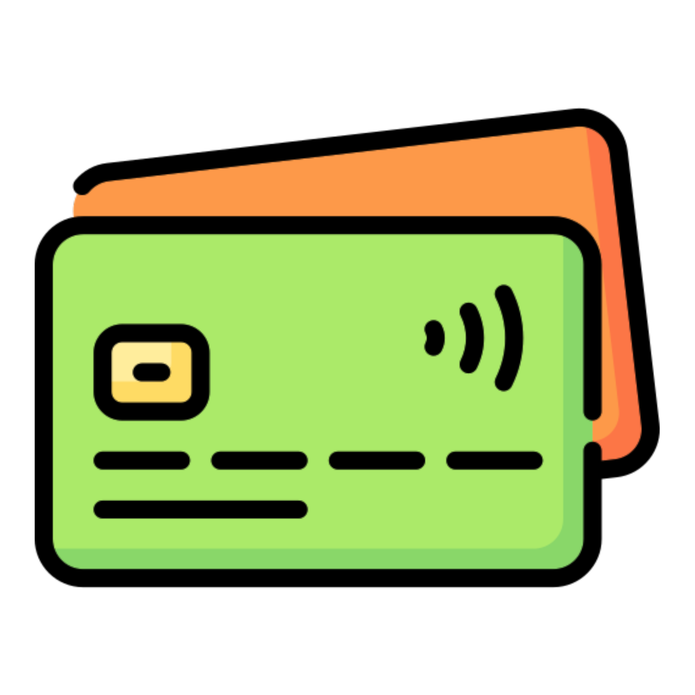
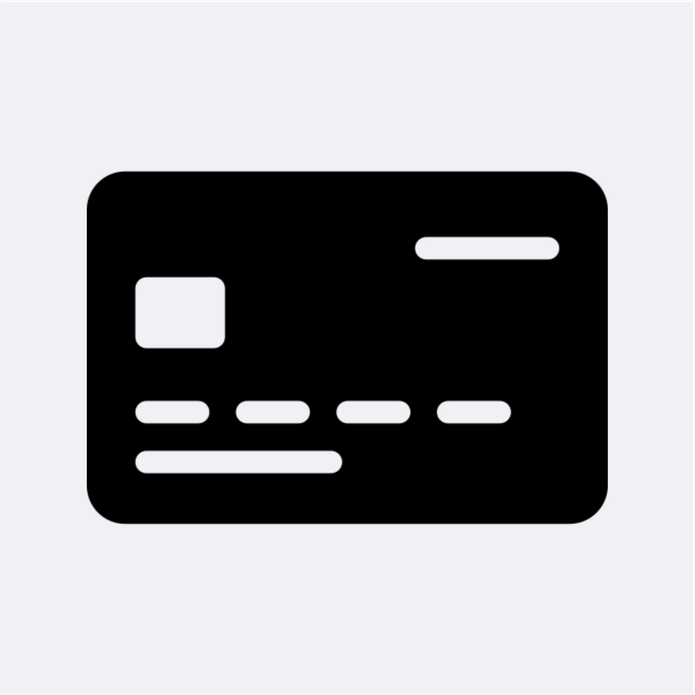
small adjustments

diff --git a/src/components/checkout/Checkout.tsx b/src/components/checkout/Checkout.tsx
@@ -19,7 +19,7 @@ export default function StripeCheckoutPage() {
     const [cardDetails, setCardDetails] = useState({ name: '', number: '', expiry: '', cvc: '' })
     const [paymentStatus, setPaymentStatus] = useState<PaymentStatus>('idle')
     const paymentMethods: PaymentMethod[] = [
-        { id: 'CREDIT_CARD', name: 'Credit Card', icon: '/cards3.png', color: 'bg-gray-100' },
+        { id: 'CREDIT_CARD', name: 'Credit Card', icon: '/cards.png', color: 'bg-gray-100' },
         { id: 'APPLE_PAY', name: 'Apple Pay', icon: '/apple-pay.png', color: 'bg-gray-100' },
         { id: 'GOOGLE_PAY', name: 'Google Pay', icon: '/google-pay.png', color: 'bg-gray-100' },
         { id: 'WAVE_PAYMENT', name: 'Wave', icon: '/wave.png', color: 'bg-blue-500' },

diff --git a/src/components/landing/AnimatedBeamMultipleOutputs.tsx b/src/components/landing/AnimatedBeamMultipleOutputs.tsx
@@ -93,7 +93,7 @@ export function AnimatedBeamMultipleOutputDemo({
                         <img src="/mtn.png" alt="MTN" className="object-cover w-full h-full" />
                     </Square>
                     <Square ref={div4Ref}>
-                        <img src="/stripe.png" alt="Stripe" className="object-cover w-full h-full" />
+                        <img src="/apple-pay.png" alt="Apple Pay" className="object-cover w-full h-full" />
                     </Square>
                     <Square ref={div5Ref}>
                         <img src="/ecobank2.png" alt="Ecobank" className="object-cover w-full h-full" />
